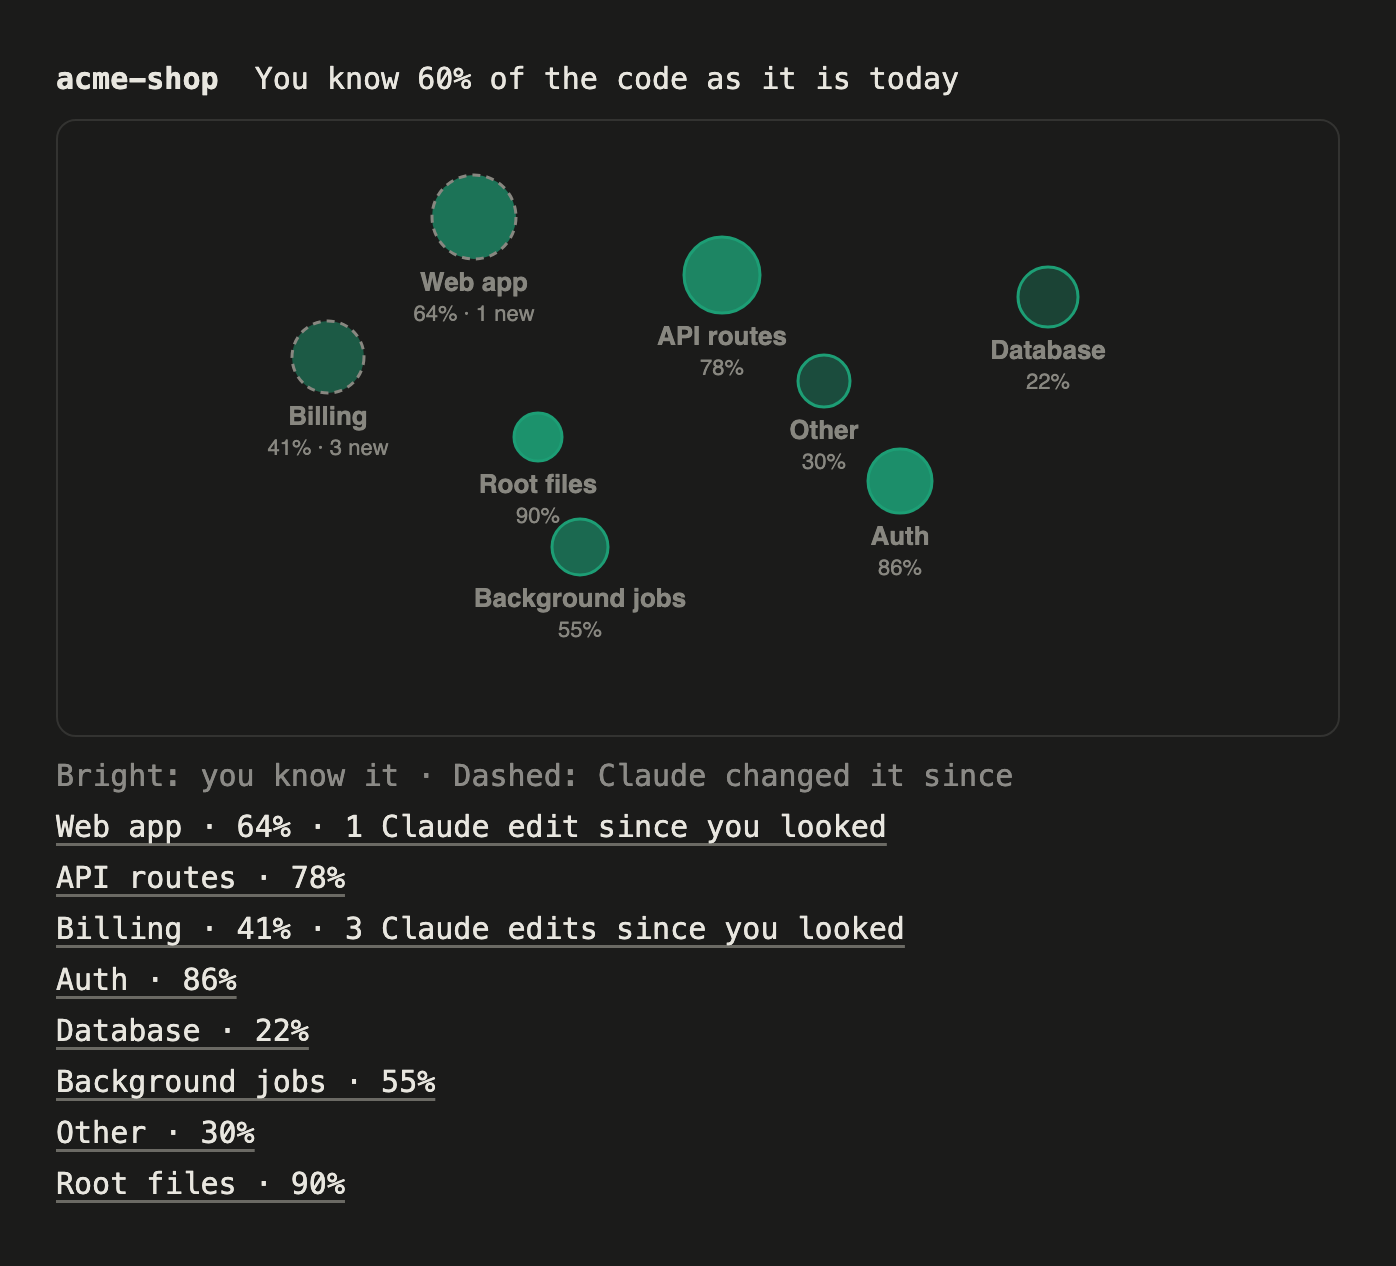
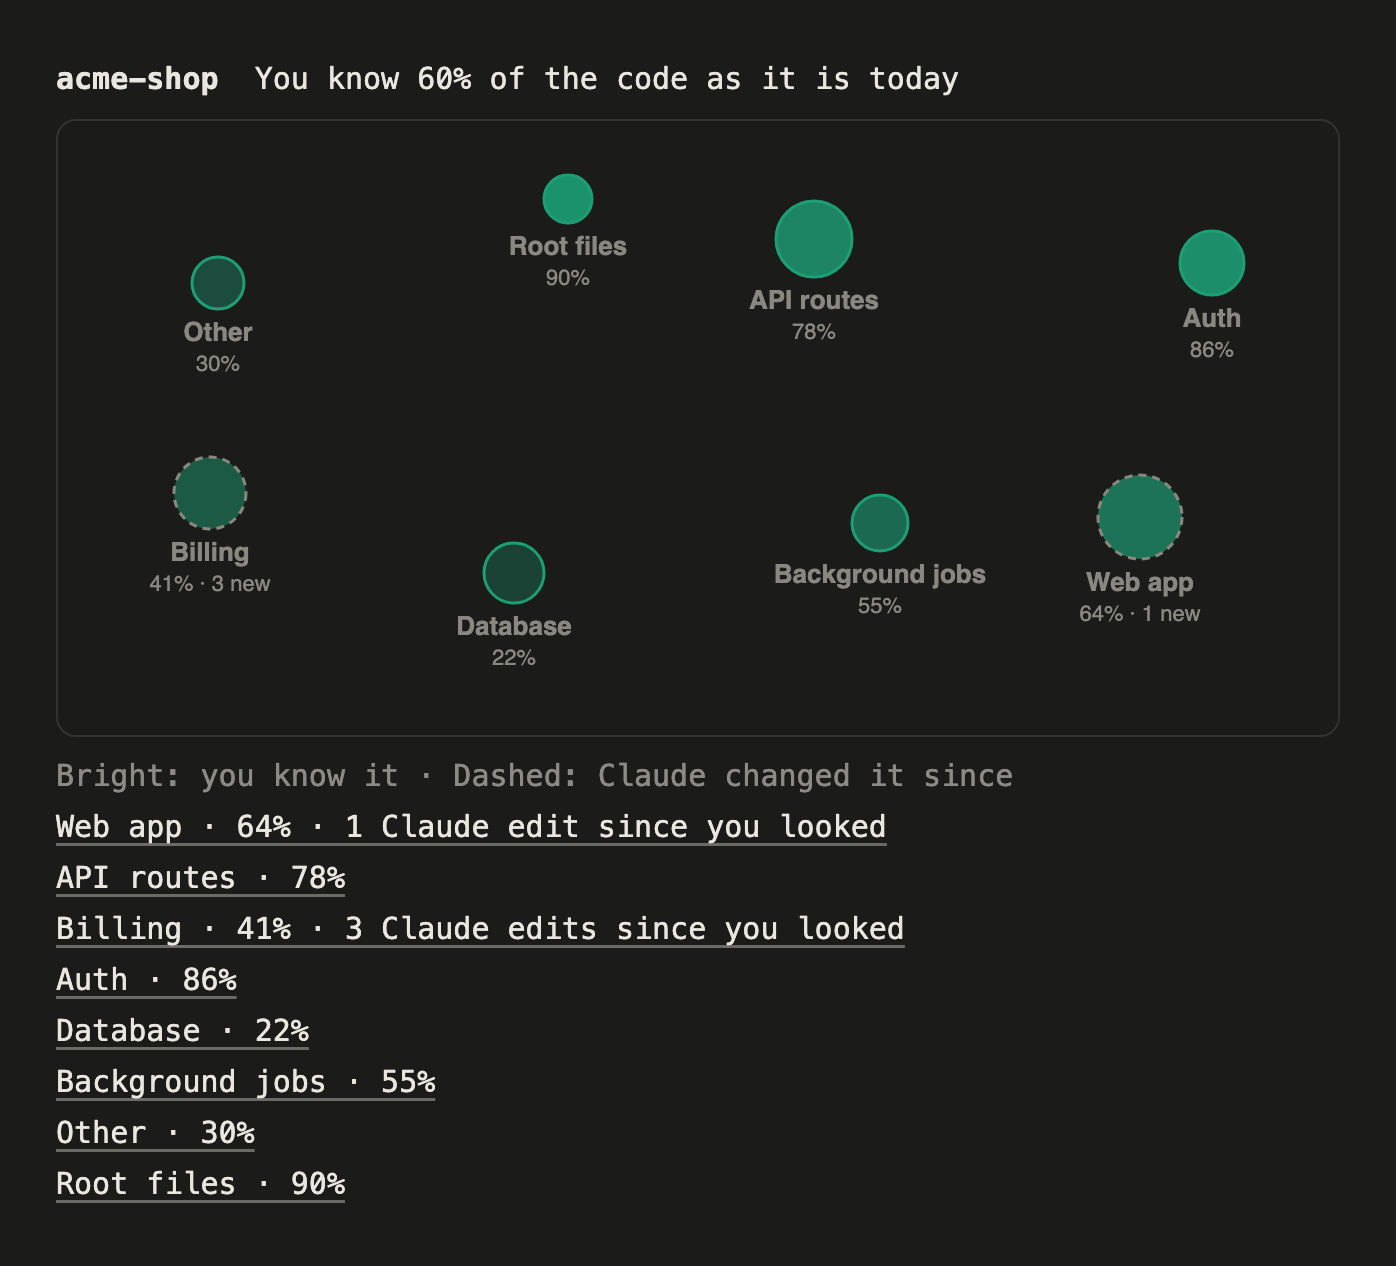
fix(views): lay the map out on a grid so stars and labels never overlap
The golden-angle spiral overlapped about 3 times on a map of 7 to 10
areas and up to 11 times with 15. Each star now gets its own grid cell,
nudged inside it, with its radius capped to fit and long names cut short
with an ellipsis. Redraw the map images.

diff --git a/src/views/layout.ts b/src/views/layout.ts
@@ -2,21 +2,65 @@ import type { Area } from '../core/types.ts'
 
 export const MAP_WIDTH = 640
 export const MAP_HEIGHT = 300
+// From a circle's bottom edge to the bottom of its label: the name (13px) and the percent line (11px).
+export const LABEL_HEIGHT = 36
 const GOLDEN_ANGLE = 2.399963
+const PAD = 4
+// A wide estimate for 13px bold sans-serif, so a label is never drawn wider than its room.
+const NAME_CHAR_WIDTH = 8
+// Room for the widest percent line, "100% · 99 new".
+const DETAIL_WIDTH = 90
 
-export type Star = { id: string; x: number; y: number; r: number }
+// label: the name as drawn, cut short with "…" when it doesn't fit. w: the label's width.
+export type Star = { id: string; x: number; y: number; r: number; label: string; w: number }
 
 const clamp = (x: number, low: number, high: number) => Math.min(high, Math.max(low, x))
 
+function rowsFor(n: number): number {
+  if (n <= 3) return 1
+  if (n <= 8) return 2
+  return 3
+}
+
+function fitLabel(name: string, room: number): string {
+  const chars = Math.floor(room / NAME_CHAR_WIDTH)
+  return name.length <= chars ? name : name.slice(0, Math.max(1, chars - 1)).trimEnd() + '…'
+}
+
+// Each star gets its own cell in a grid, so circles and labels never overlap. Inside its cell a star is
+// nudged by a fixed amount per position, so the map reads as a sky rather than a table.
 // Sorted by id so the same areas always land in the same places.
 export function layoutStars(areas: Area[]): Star[] {
   const total = areas.reduce((sum, a) => sum + a.lines, 0) || 1
   const ordered = [...areas].sort((a, b) => a.id.localeCompare(b.id))
+  const rows = rowsFor(ordered.length)
+  const columns = Math.ceil(ordered.length / rows) || 1
+  const cellW = MAP_WIDTH / columns
+  const cellH = MAP_HEIGHT / rows
+  const maxR = Math.floor(Math.min((cellH - LABEL_HEIGHT) / 2 - PAD, cellW / 2 - PAD, 32))
   return ordered.map((a, i) => {
-    const t = Math.sqrt((i + 0.5) / ordered.length)
-    const angle = i * GOLDEN_ANGLE
-    const x = clamp(MAP_WIDTH / 2 + Math.cos(angle) * t * 250, 60, MAP_WIDTH - 60)
-    const y = clamp(MAP_HEIGHT / 2 - 20 + Math.sin(angle) * t * 95, 40, MAP_HEIGHT - 70)
-    return { id: a.id, x: Math.round(x), y: Math.round(y), r: Math.round(8 + 24 * Math.sqrt(a.lines / total)) }
+    const row = Math.floor(i / columns)
+    const inRow = Math.min(columns, ordered.length - row * columns)
+    // A short last row is centered.
+    const left = ((columns - inRow) * cellW) / 2 + (i - row * columns) * cellW
+    const top = row * cellH
+    const r = Math.min(maxR, Math.round(8 + 24 * Math.sqrt(a.lines / total)))
+    const label = fitLabel(a.name, cellW - 2 * PAD)
+    const w = Math.max(label.length * NAME_CHAR_WIDTH, DETAIL_WIDTH)
+    const half = Math.max(r, w / 2)
+    const xLow = left + PAD + half
+    const xHigh = left + cellW - PAD - half
+    const yLow = top + PAD + r
+    const yHigh = top + cellH - PAD - LABEL_HEIGHT - r
+    const x = (xLow + xHigh) / 2 + Math.sin(i * GOLDEN_ANGLE) * 0.7 * ((xHigh - xLow) / 2)
+    const y = (yLow + yHigh) / 2 + Math.cos(i * GOLDEN_ANGLE) * 0.6 * ((yHigh - yLow) / 2)
+    return {
+      id: a.id,
+      x: Math.round(clamp(x, xLow, xHigh)),
+      y: Math.round(clamp(y, yLow, yHigh)),
+      r,
+      label,
+      w,
+    }
   })
 }

diff --git a/tests/view-map.test.ts b/tests/view-map.test.ts
@@ -1,6 +1,6 @@
 import { expect, test } from 'claude-code/testing'
 import type { Area } from '../src/core/types.ts'
-import { MAP_HEIGHT, MAP_WIDTH, layoutStars } from '../src/views/layout.ts'
+import { LABEL_HEIGHT, MAP_HEIGHT, MAP_WIDTH, layoutStars, type Star } from '../src/views/layout.ts'
 import { escapeXml, mapAlt, mapSvg } from '../src/views/map-svg.ts'
 import { DEFAULT_COLOR, encodeCells, rasterGrid, starColor } from '../src/views/map-raster.ts'
 
@@ -9,15 +9,49 @@ const area = (id: string, over: Partial<Area> = {}): Area => ({
 })
 const areas = [area('auth', { score: 0.92, lines: 300 }), area('billing', { score: 0.31, editsSinceLooked: 14, name: 'Billing & Co' }), area('docs', { score: 0.1 })]
 
-test('layoutStars is stable and stays inside the map', async () => {
+test('layoutStars is stable and sizes stars by their share of lines', async () => {
   const stars = layoutStars(areas)
   expect(layoutStars([...areas].reverse())).toEqual(stars)
   expect(stars.map(s => s.id)).toEqual(['auth', 'billing', 'docs'])
-  for (const s of stars) {
-    expect(s.x >= 60 && s.x <= MAP_WIDTH - 60).toBe(true)
-    expect(s.y >= 40 && s.y <= MAP_HEIGHT - 70).toBe(true)
-  }
   expect(stars[0].r > stars[2].r).toBe(true)
+})
+
+// A star takes its circle plus the label under it: the name and the percent line.
+type Box = [number, number, number, number]
+const boxesOf = (s: Star): Box[] => [
+  [s.x - s.r, s.y - s.r, s.x + s.r, s.y + s.r],
+  [s.x - s.w / 2, s.y + s.r, s.x + s.w / 2, s.y + s.r + LABEL_HEIGHT],
+]
+const overlaps = (a: Box, b: Box) => a[0] < b[2] && b[0] < a[2] && a[1] < b[3] && b[1] < a[3]
+const NAMES = ['Billing', 'Auth', 'API routes', 'Web app', 'Database', 'Background jobs and scheduled workers', 'Root files', 'Other',
+  'Payments', 'Search', 'Notifications', 'Admin dashboard', 'Infrastructure', 'Mobile app', 'Shared UI components']
+
+test('layoutStars keeps every star and label inside the map and apart from the others', async () => {
+  for (let n = 1; n <= 15; n++) {
+    // One large area and many small ones, the hardest case for star sizes.
+    const set = NAMES.slice(0, n).map((name, i) => area(`a${String(i).padStart(2, '0')}`, { name, lines: i === 0 ? 20000 : 150 + i * 97 }))
+    const stars = layoutStars(set)
+    expect(stars.length).toBe(n)
+    for (const s of stars) {
+      for (const [x1, y1, x2, y2] of boxesOf(s)) {
+        expect(x1 >= 0 && y1 >= 0 && x2 <= MAP_WIDTH && y2 <= MAP_HEIGHT).toBe(true)
+      }
+    }
+    for (let i = 0; i < stars.length; i++) {
+      for (let j = i + 1; j < stars.length; j++) {
+        for (const a of boxesOf(stars[i])) for (const b of boxesOf(stars[j])) expect(overlaps(a, b)).toBe(false)
+      }
+    }
+  }
+})
+
+test('a name too long for its room is cut short', async () => {
+  const set = NAMES.map((name, i) => area(`a${String(i).padStart(2, '0')}`, { name }))
+  const long = layoutStars(set).find(s => s.id === 'a05')!
+  expect(long.label.endsWith('…')).toBe(true)
+  expect(NAMES[5].startsWith(long.label.slice(0, -1))).toBe(true)
+  expect(mapSvg(set, layoutStars(set))).toContain(`>${long.label}</text>`)
+  expect(layoutStars([area('a', { name: 'Billing' })])[0].label).toBe('Billing')
 })
 
 test('mapSvg draws a star per area, dashed when Claude changed it', async () => {

diff --git a/src/views/map-svg.ts b/src/views/map-svg.ts
@@ -20,7 +20,7 @@ export function mapSvg(areas: Area[], stars: Star[]): string {
       `<circle cx="${s.x}" cy="${s.y}" r="${s.r}" fill="${TEAL}" fill-opacity="${(0.12 + 0.88 * a.score).toFixed(2)}" ` +
       `stroke="${changed ? GRAY : TEAL}" stroke-width="1.5"${changed ? ' stroke-dasharray="4 3"' : ''}/>`
     const name =
-      `<text x="${s.x}" y="${s.y + s.r + 16}" text-anchor="middle" font-size="13" font-weight="600" fill="${GRAY}">${escapeXml(a.name)}</text>`
+      `<text x="${s.x}" y="${s.y + s.r + 16}" text-anchor="middle" font-size="13" font-weight="600" fill="${GRAY}">${escapeXml(s.label)}</text>`
     const detail =
       `<text x="${s.x}" y="${s.y + s.r + 31}" text-anchor="middle" font-size="11" fill="${GRAY}">` +
       `${Math.round(a.score * 100)}%${changed ? ` · ${a.editsSinceLooked} new` : ''}</text>`

diff --git a/README.md b/README.md
@@ -86,7 +86,7 @@ The images below are drawn from Apprentice's own view code with demo data (`node
 <p align="center"><img src="docs/images/band-flaw.png" alt="A spot-the-flaw card: a diff that removes the session expiry check, with Looks fine and Flag to Claude buttons" width="640"></p>
 <p align="center"><img src="docs/images/band-answered.png" alt="The answered card: Right, with Haiku's one-line explanation" width="820"></p>
 
-**The map.** `/apprentice` groups your repo into at most 15 areas, names them, and seeds each score from `git blame`. Each area is a star, sized by its share of the code and brighter the more you know it. A dashed outline means Claude changed it since you last looked. Under the map, each area is a button for its details: rename it, merge it into another, or bring back a skipped card.
+**The map.** `/apprentice` groups your repo into at most 15 areas, names them, and seeds each score from `git blame`. Each area is a star with its name under it, sized by its share of the code and brighter the more you know it. A dashed outline means Claude changed it since you last looked. Under the map, each area is a button for its details: rename it, merge it into another, or bring back a skipped card.
 
 <p align="center"><img src="docs/images/map-desktop.png" alt="The knowledge map in the Desktop app: eight areas as stars, Billing and Web app dashed, with the headline You know 60% of the code as it is today" width="620"></p>
 

diff --git a/docs/apprentice.md b/docs/apprentice.md
@@ -114,6 +114,8 @@ Module variables, lost on a reload: the card on screen, the quiet-until time, th
 | Terminal | `Raster` grid in a `Pane` | `AbovePrompt` band, as text | `Box` tiles in a `Pane` |
 | VS Code | Not supported in v1: the pane says "Apprentice supports the Desktop app and the terminal." | Not drawn | Not supported |
 
+How the map is laid out (`layoutStars` in `src/views/layout.ts`): areas, sorted by id, fill a grid of 1 row (up to 3 areas), 2 rows (up to 8) or 3 rows, row by row, with a short last row centered. Each star gets its own cell and stays inside it, circle and label, so nothing overlaps and nothing leaves the 640 × 300 map. Inside its cell a star is nudged by a fixed amount for its position, so the map doesn't look like a table. A star's radius is `8 + 24 × sqrt(lines share)`, capped so it fits its cell (at most 32). A name wider than its cell, estimated at 8px a character, is cut short with "…" (the area list under the map shows the full name). The terminal raster places each star at the same relative position.
+
 Outside a git repo the pane says "Apprentice needs a git repo." and nothing else happens. If a mapping step fails, the pane says which one and suggests `/apprentice remap`. The map takes no clicks; areas are opened from the list under it.
 
 ## Testing

diff --git a/docs/superpowers/specs/2026-10-23-apprentice-design.md b/docs/superpowers/specs/2026-10-23-apprentice-design.md
@@ -370,6 +370,7 @@ Where the code differs from this spec, as of 2026-10-23. The current truth is in
 16. The band trims a spot-the-flaw hunk to `max(3, maxRows - 7)` lines plus "… N more lines", from `AbovePrompt`'s `maxRows`, so the card never scrolls (a scrolling band arms no digit hotkey). The stored hunk keeps up to 40 lines.
 17. The hourly cap counts card requests to Haiku when they're made, not cards shown, so replies that make no card count too.
 18. The repo is published as `isAlmogK/apprentice-claude-mod`, so the install is `/plugin marketplace add isAlmogK/apprentice-claude-mod`, then `/plugin install apprentice@apprentice` (the marketplace and plugin are still named `apprentice`).
+19. The map lays stars out on a grid, one cell per area with its label inside the cell, instead of a free scatter, so stars and labels never overlap; long names are cut short with "…" on the map. The first layout, a golden-angle spiral, overlapped about 3 times on a map of 7 to 10 areas.
 
 ## Sources
 
